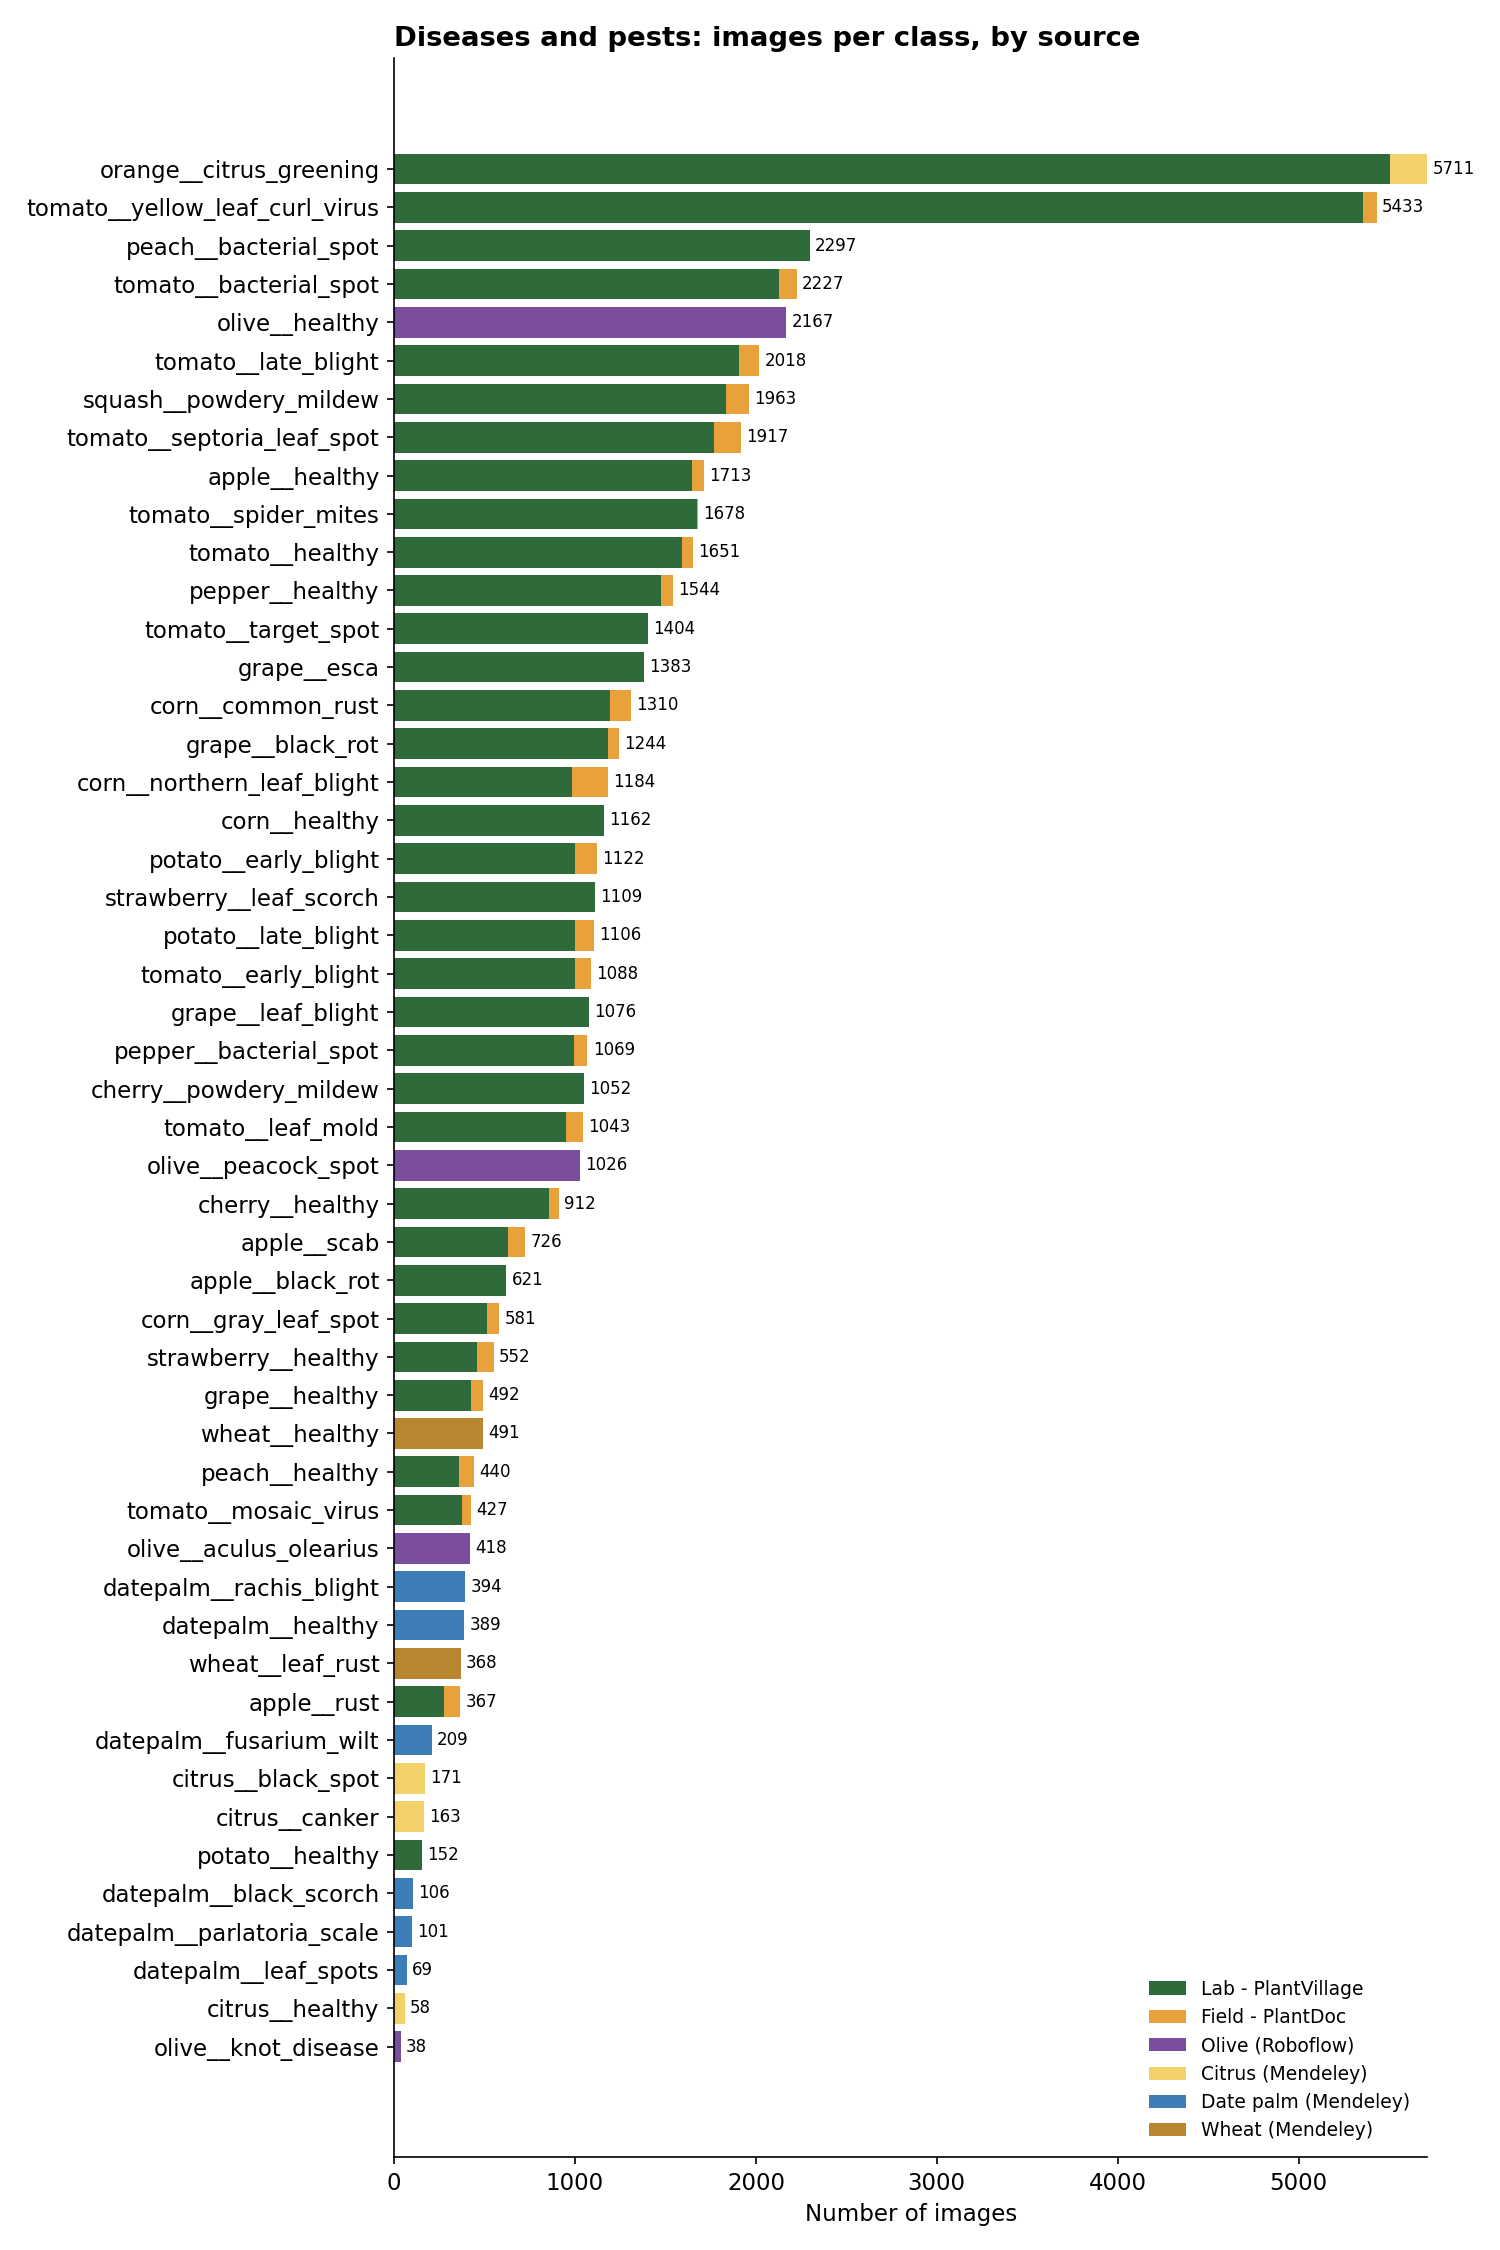
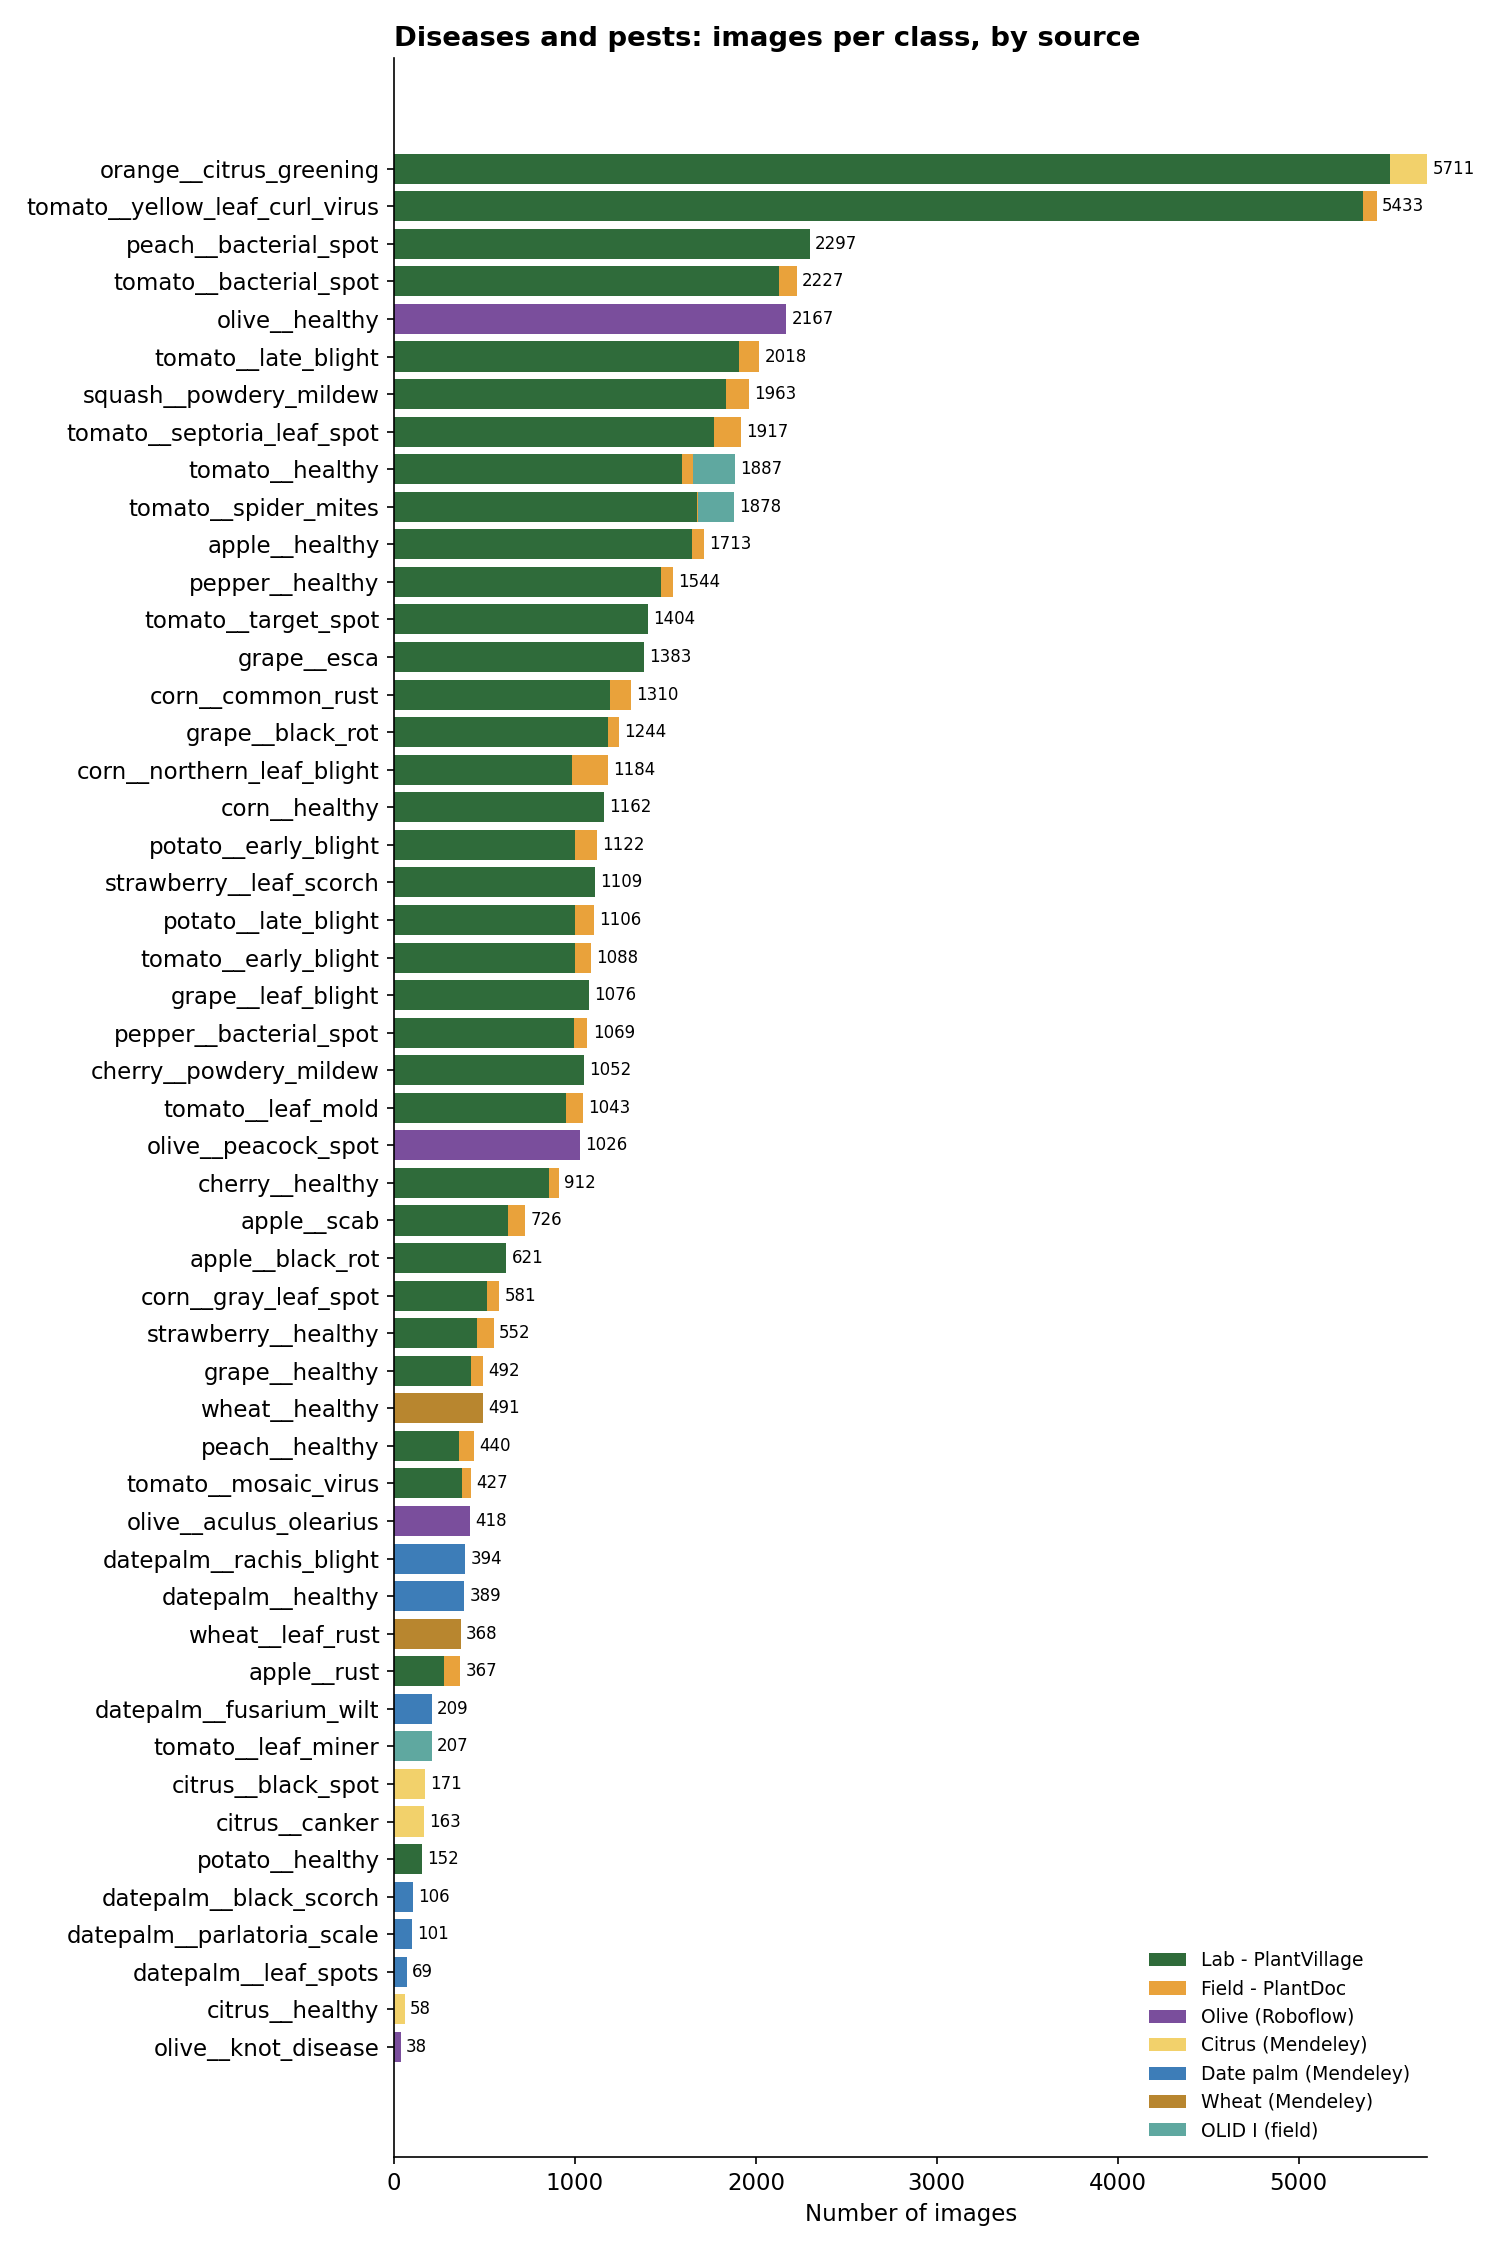
Add pepper nutrient deficiency dataset (Fe, K, Mg, N, P, Zn, healthy)
organize_pepper.py labels each image with the deficiency prefix of its VOC boxes
(all organs kept), cleans the names, excludes 3 bad files and splits by shooting
session to avoid near-duplicate leakage; add_source.py pepper then imports 6805 images.

Changed region(s): [[0.0613, 0.0933, 0.5827, 0.9022], [0.7667, 0.8711, 0.92, 0.9644]]

diff --git a/src/preparation/organize_pepper.py b/src/preparation/organize_pepper.py
@@ -1,0 +1,92 @@
+"""Turn the pepper dataset (flat photo folder + Pascal VOC XML) into one folder per split/class for add_source.py.
+
+Usage: python src/preparation/organize_pepper.py   then   python src/preparation/add_source.py pepper
+
+The XML boxes are named "<deficiency>_<organ>" (fe_leaf, n_stem, healthy_root...). The model works on the
+whole plant, so every image is kept and labelled with its deficiency prefix, whatever the organ.
+Corrections: names are stripped (some end with \\t or \\n), photos are found by DSC number (one XML is
+named "DSC02573,.xml"); unreadable XML, XML without boxes and images
+mixing several deficiencies are excluded.
+Split: photos are numbered in shooting order and each run of consecutive numbers is one session of one
+class (near-duplicate shots), so whole runs go to train/val/test (~70/15/15 per class) to avoid leakage.
+Images are hard-linked (no extra disk space) into data/raw/pepper/by_split/<split>/<class>/.
+"""
+import os
+import random
+import re
+import shutil
+import xml.etree.ElementTree as ET
+from collections import defaultdict
+
+SEED, SPLIT = 42, (0.70, 0.15, 0.15)
+BASE = os.path.join("data", "raw", "pepper", "Pepper Nutrient Deficiency Dataset", "pepper", "pepper")
+LABELS, PHOTOS = os.path.join(BASE, "Labels"), os.path.join(BASE, "pepper_photo")
+OUT = os.path.join("data", "raw", "pepper", "by_split")
+
+
+def label_of(xml_path):
+    """Deficiency prefix of the image, or (None, reason) when it cannot be trusted."""
+    try:
+        root = ET.parse(xml_path).getroot()
+    except ET.ParseError:
+        return None, "unreadable xml"
+    prefixes = {o.findtext("name").strip().split("_")[0] for o in root.iter("object")}
+    if not prefixes:
+        return None, "no box"
+    if len(prefixes) > 1:
+        return None, "mixed labels " + "+".join(sorted(prefixes))
+    return prefixes.pop(), root.findtext("filename").strip()
+
+
+def main():
+    labelled, excluded = [], []
+    for name in sorted(os.listdir(LABELS), key=lambda n: int(re.search(r"\d+", n).group())):
+        cls, info = label_of(os.path.join(LABELS, name))
+        photo = os.path.join(PHOTOS, "DSC" + re.search(r"\d+", name).group() + ".JPG")  # "DSC02573,.xml" exists
+        if cls is None:
+            excluded.append((name, info))
+        elif not os.path.exists(photo):
+            excluded.append((name, "photo not found"))
+        else:
+            labelled.append((cls, photo))
+
+    # Runs of consecutive photos of the same class = one shooting session.
+    runs = []
+    for cls, photo in labelled:
+        if runs and runs[-1][0] == cls:
+            runs[-1][1].append(photo)
+        else:
+            runs.append((cls, [photo]))
+    by_class = defaultdict(list)
+    for cls, photos in runs:
+        by_class[cls].append(photos)
+
+    if os.path.isdir(OUT):
+        shutil.rmtree(OUT)
+    rng = random.Random(SEED)
+    for cls in sorted(by_class):
+        sessions = by_class[cls]
+        rng.shuffle(sessions)
+        total, done, counts = sum(len(s) for s in sessions), 0, defaultdict(int)
+        for photos in sessions:
+            frac = done / total
+            split = "train" if frac < SPLIT[0] else "val" if frac < SPLIT[0] + SPLIT[1] else "test"
+            d = os.path.join(OUT, split, cls)
+            os.makedirs(d, exist_ok=True)
+            for p in photos:
+                dst = os.path.join(d, os.path.basename(p))
+                try:
+                    os.link(p, dst)
+                except OSError:
+                    shutil.copy2(p, dst)
+            done += len(photos)
+            counts[split] += len(photos)
+        print(f"  {cls:<8} {len(sessions):>3} sessions  train {counts['train']:>4}  val {counts['val']:>4}  test {counts['test']:>4}")
+
+    print(f"kept {len(labelled)} images, excluded {len(excluded)}:")
+    for name, why in excluded:
+        print(f"  {name}: {why}")
+
+
+if __name__ == "__main__":
+    main()

diff --git a/src/preparation/eda_images.py b/src/preparation/eda_images.py
@@ -29,6 +29,7 @@ SRC = {
     "datepalm":     ("#3D7DB8", "Date palm (Mendeley)"),
     "wheat":        ("#B8862F", "Wheat (Mendeley)"),
     "olid":         ("#5FA8A0", "OLID I (field)"),
+    "pepper":       ("#C0392B", "Pepper NPK (Mendeley)"),
     "rice":         ("#1B3A24", "Rice NPK (Kaggle)"),
     "coleaf":       ("#C2622D", "Coffee - CoLeaf"),
 }
